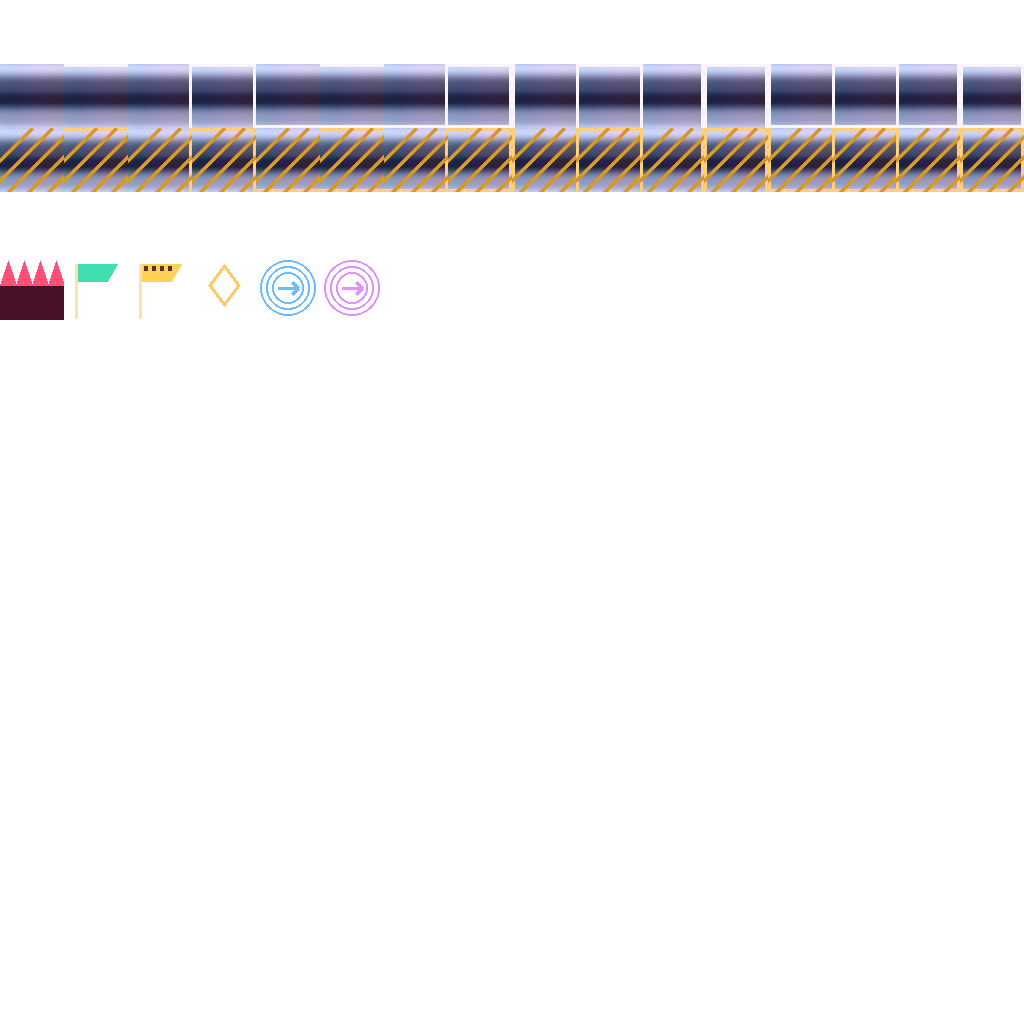
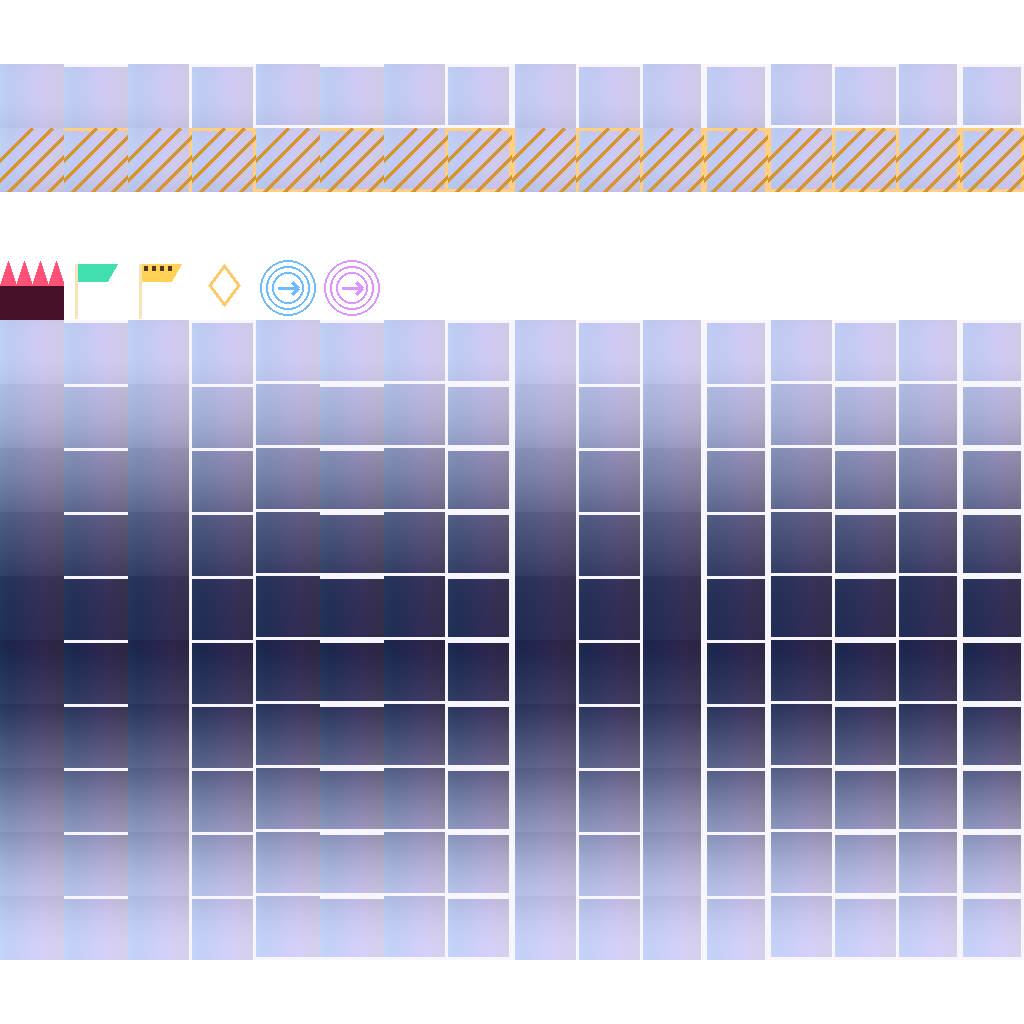
Maps: continuous LED and chrome depth gradients instead of repeating vertical bands

diff --git a/scripts/build_code_worlds.py b/scripts/build_code_worlds.py
@@ -10,20 +10,20 @@ STYLES=('sound','folds','circuit','chrome')
 def rgb(h,s,l):
     return tuple(round(v*255) for v in colorsys.hls_to_rgb((h%360)/360,l,s))
 
-def tile(style,mask,nohook=False):
+def tile(style,mask,nohook=False,depth=0):
     im=Image.new('RGBA',(64,64));d=ImageDraw.Draw(im)
     for y in range(64):
         if style=='sound': c=rgb(315-y*2,.65,.10+(64-y)*.001)
         elif style=='folds': c=(176+y//7,92+y//8,66+y//10)
         elif style=='circuit': c=(8,49-y//4,43-y//5)
         else:
-            v=int(120+95*math.cos(y/64*math.pi*2)+22*math.sin(y*.3));c=(max(15,v-15),max(20,v-2),min(255,v+25))
+            v=int(120+95*math.cos((depth*64+y)/640*math.pi*2)+10*math.sin(y*.03));c=(max(15,v-15),max(20,v-2),min(255,v+25))
         d.line((0,y,63,y),fill=(*c,255))
     if style=='sound':
         for x in range(5,64,14):
             for y in range(7,61,9):
-                d.rounded_rectangle((x,y,x+8,y+5),1,fill=(*rgb(315-y*2,.78,.48-y*.002),255))
-                d.line((x+1,y,x+7,y),fill=(255,190,222,150))
+                d.rounded_rectangle((x,y,x+8,y+5),1,fill=(*rgb(315-depth*13-y*.12,.78,.48-y*.001),255))
+                d.line((x+1,y,x+7,y),fill=(*rgb(315-depth*13,.65,.75),150))
     elif style=='folds':
         for x in range(0,64,16):
             d.polygon([(x,0),(x+8,0),(x+8,64),(x,64)],fill=(230,145,103,255))
@@ -61,6 +61,11 @@ def atlas(style):
         for mask in range(16):
             idx=(32 if nohook else 16)+mask
             im.paste(tile(style,mask,nohook),((idx%16)*64,(idx//16)*64))
+    if style in ('sound','chrome'):
+        for depth in range(10):
+            for mask in range(16):
+                idx=80+depth*16+mask
+                im.paste(tile(style,mask,depth=depth),((idx%16)*64,(idx//16)*64))
     for idx in range(64,70):
         t=Image.new('RGBA',(64,64));d=ImageDraw.Draw(t)
         if idx==64:

diff --git a/scripts/build_neon_maps.py b/scripts/build_neon_maps.py
@@ -24,7 +24,7 @@ import struct
 import math
 
 sys.path.insert(0, str(pathlib.Path(__file__).resolve().parent))
-from map_format import MapWriter, quad_rect  # noqa: E402
+from map_format import MapWriter, quad_rect, pack_name  # noqa: E402
 
 ROOT = pathlib.Path(__file__).resolve().parent.parent
 OUTDIR = ROOT / "data" / "maps"
@@ -269,6 +269,10 @@ def write_map(name, build, blurb):
 					nx,ny=x+dx,y+dy
 					if not (0<=nx<g.w and 0<=ny<g.h) or g.g[ny][nx] not in (T_SOLID,T_NOHOOK): mask |= bit
 				idx = (32 if v==T_NOHOOK else 16)+mask
+				if v==T_SOLID and style in ("sound","chrome"):
+					depth=0
+					while depth<9 and y-depth>0 and g.g[y-depth-1][x] in (T_SOLID,T_NOHOOK): depth+=1
+					idx=80+depth*16+mask
 				if mask&1 and x%8==0:
 					q=list(struct.unpack('<38i',quad_rect(x*32-48,y*32-64,x*32+80,y*32+32)))
 					q[-2]=0 # shared synchronized color envelope
@@ -285,7 +289,7 @@ def write_map(name, build, blurb):
 		phase=step/16
 		strength=(math.exp(-phase*5) if step<16 else 1) if style=="sound" else .5+.5*math.cos(phase*math.tau)
 		points += [round(phase*period),1,1024,1024,1024,round(250+strength*500)]
-	mw.item(3,[2,4,0,17]+[0]*8+[1])
+	mw.item(3,[2,4,0,17]+pack_name("Material light",8)+[1])
 	mw.item(6,points)
 	mw.quads_layer([quad_rect(-1600,-1000,1600,1000)],img_sky,"Atmosphere")
 	mw.group((0,0),(0,0),0,1,"Far")

diff --git a/scripts/map_format.py b/scripts/map_format.py
@@ -22,11 +22,11 @@ import zlib
 TILE = 4  # sizeof(CTile)
 
 
-def pack_name(name):
-	b = name.encode("utf-8")[:11].ljust(12, b"\0")
+def pack_name(name, num_ints=3):
+	b = name.encode("utf-8")[:num_ints*4-1].ljust(num_ints*4, b"\0")
 	b = bytes((v + 128) % 256 for v in b)
 	b = b[:-1] + b"\0"
-	return [struct.unpack(">i", b[i:i + 4])[0] for i in (0, 4, 8)]
+	return [struct.unpack(">i", b[i:i + 4])[0] for i in range(0,num_ints*4,4)]
 
 
 class Raw:
